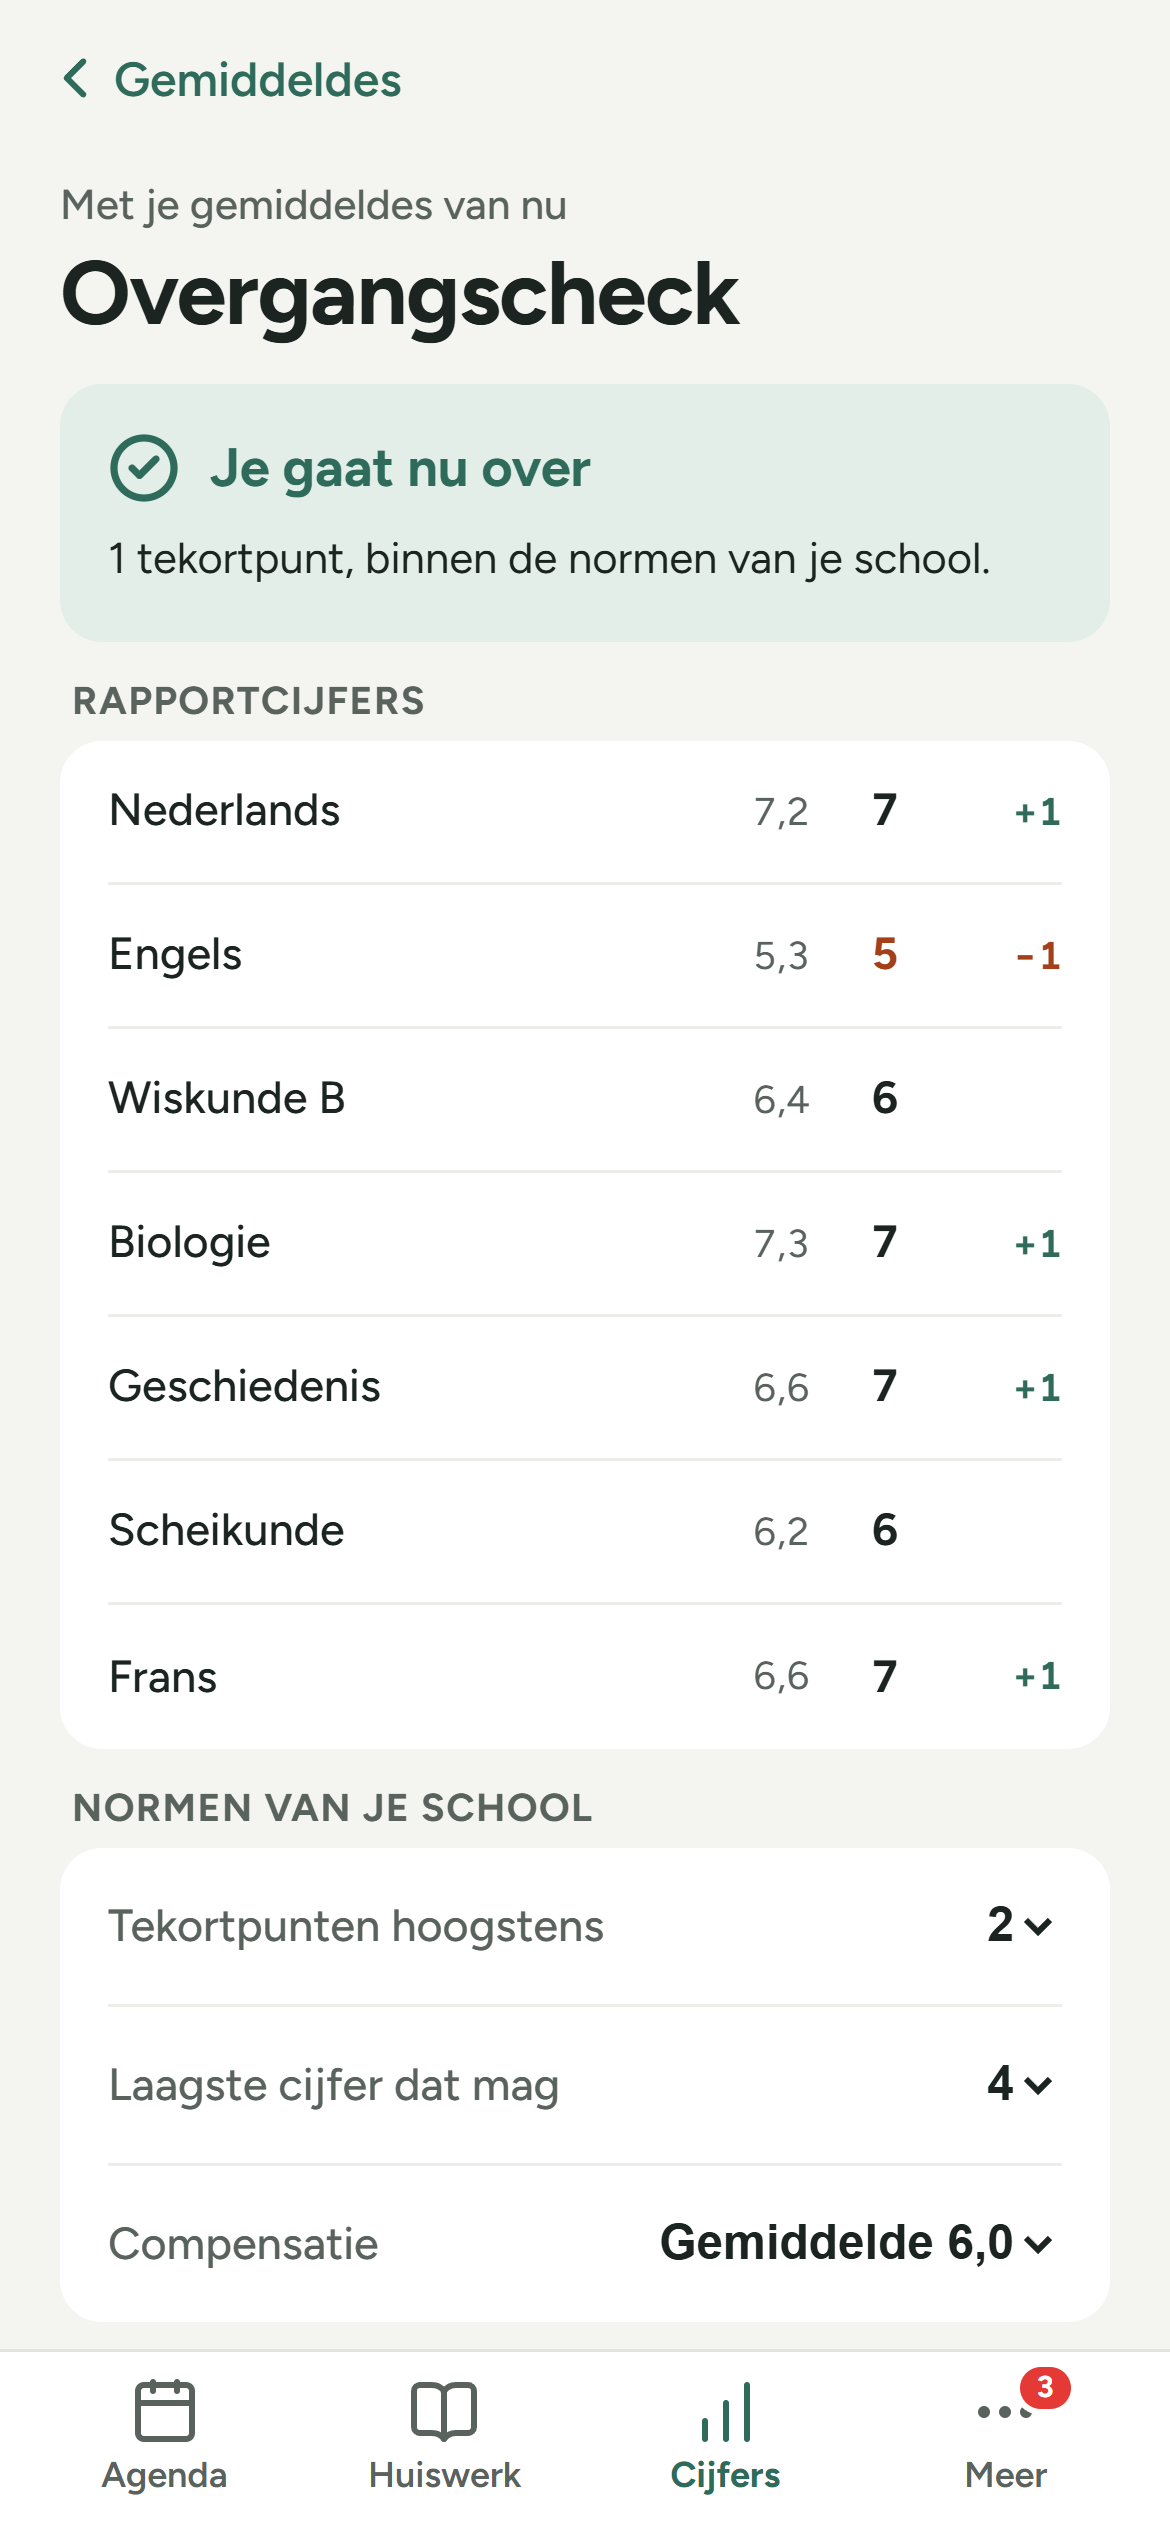
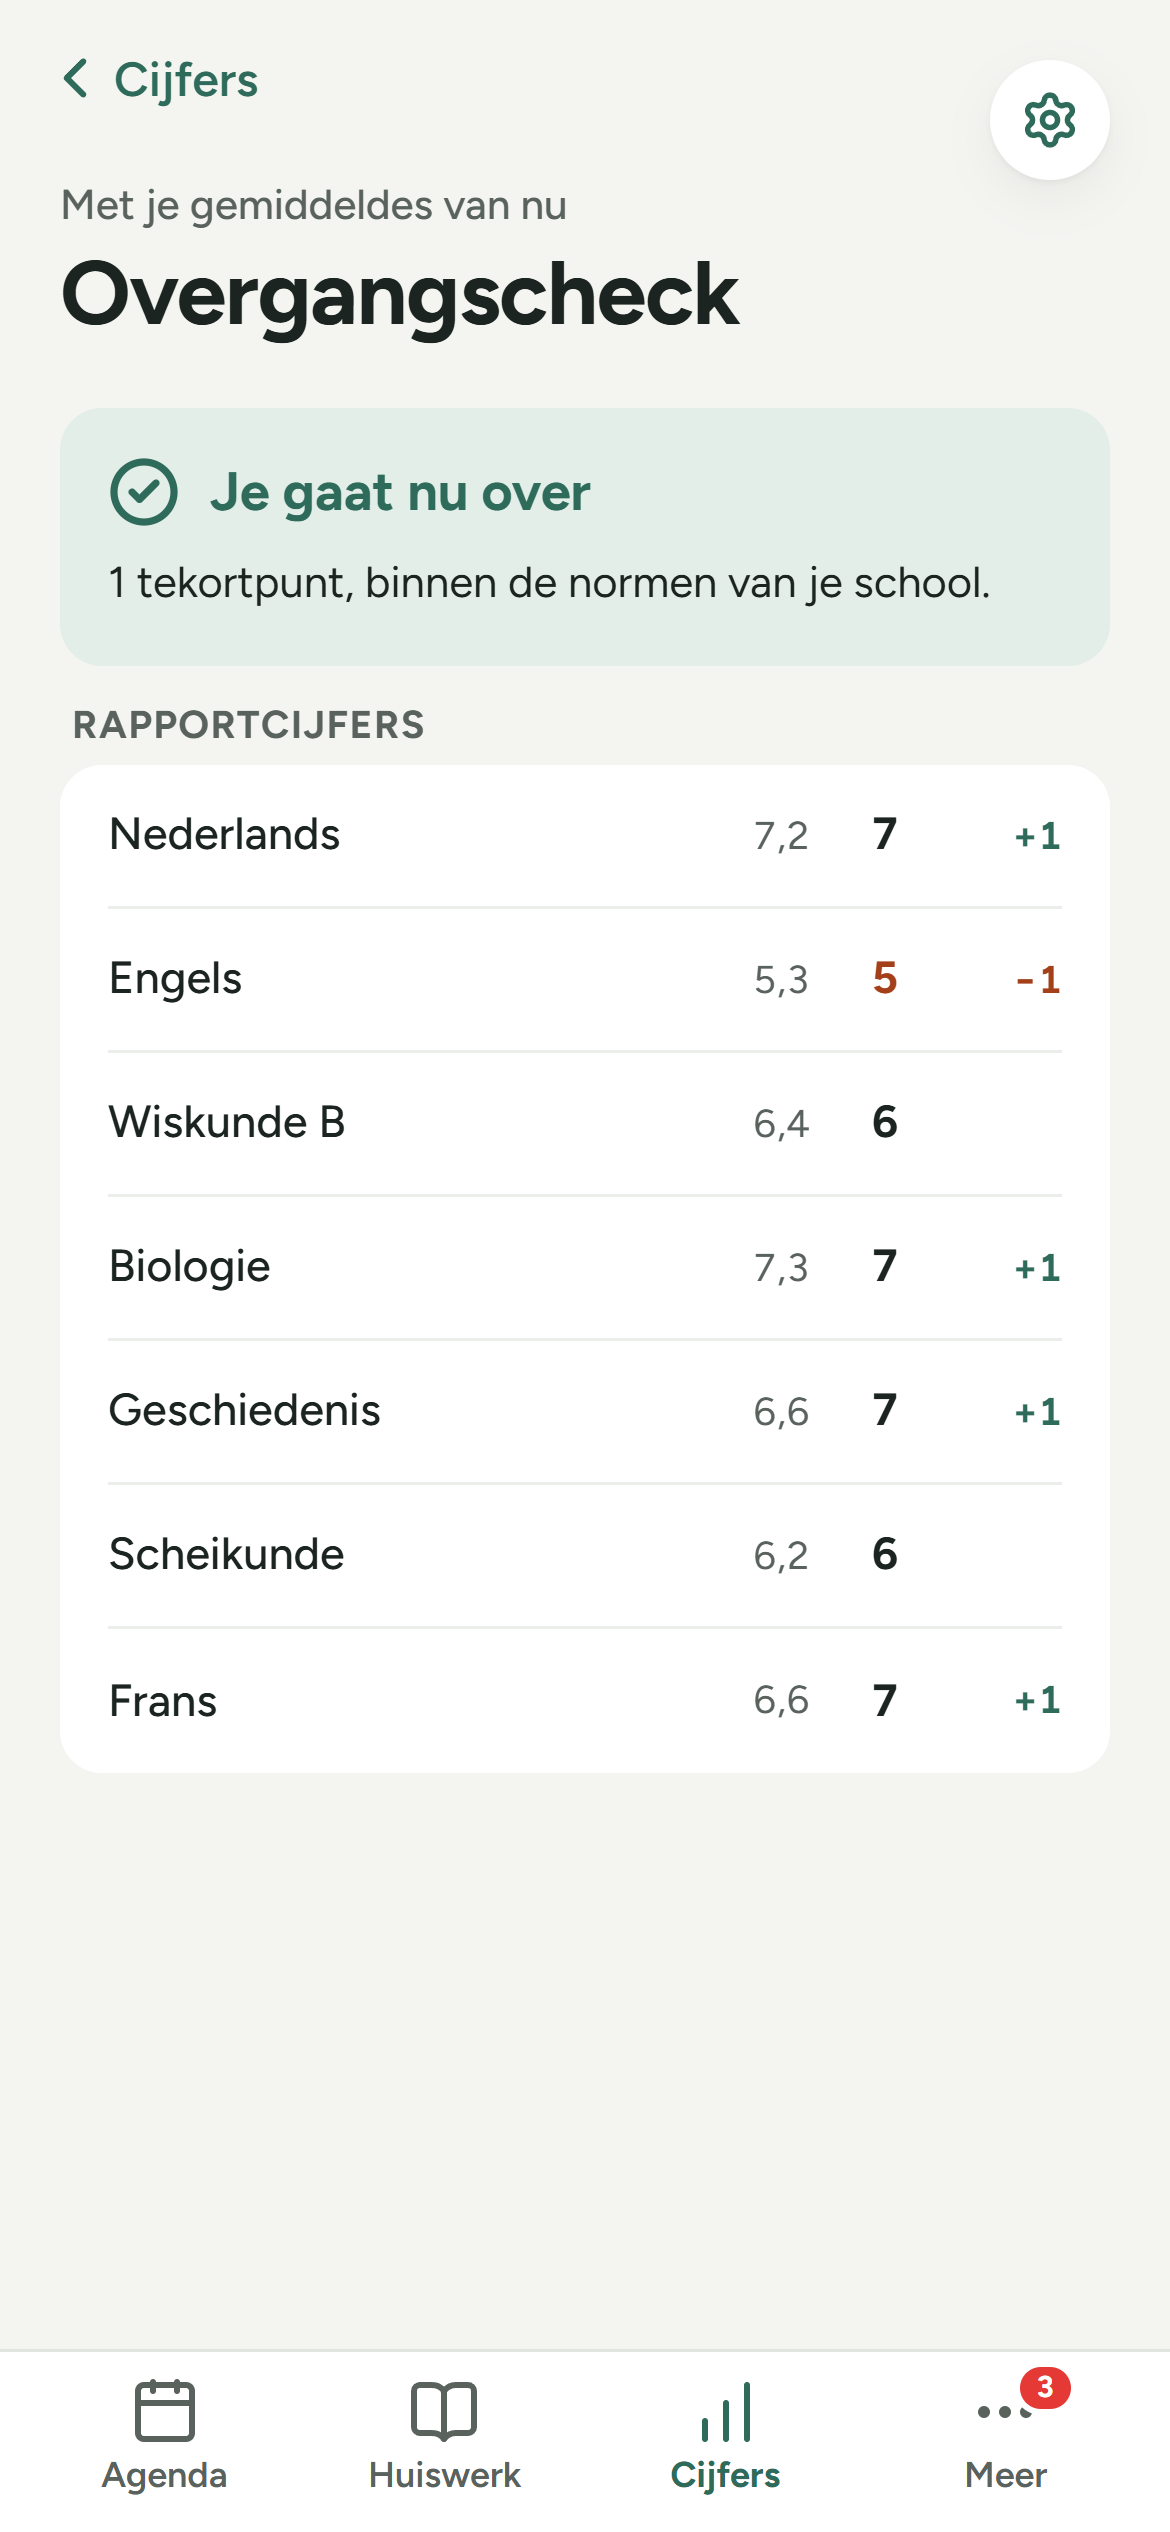
Cijfers: Gemiddeldes en Overgang/Examen samen rechtsboven; terug vanaf de checks naar Cijfers

diff --git a/src/screens/Cijfers.tsx b/src/screens/Cijfers.tsx
@@ -7,6 +7,7 @@ import { Sectie } from '../components/ui/Sectie';
 import { VegenOmTeVernieuwen } from '../components/ui/VegenOmTeVernieuwen';
 import { useCijfers } from '../hooks/useCijfers';
 import { meestRecent } from '../lib/cijfers';
+import { isExamenjaar } from '../lib/examen';
 import { nieuwVandaag } from '../lib/nieuweCijfers';
 import '../components/agenda/agenda.css';
 import '../components/cijfers/cijfers.css';
@@ -18,6 +19,8 @@ export function Cijfers() {
   const { cijfers, profiel, resultaat, fout, vernieuw } = useCijfers();
   // Net als op de andere schermen: titel groot, daaronder klas en periode.
   const onder = [profiel?.klas, profiel?.periode].filter(Boolean).join(' · ');
+  // In het examenjaar (5 havo, 6 vwo) is er geen overgang maar een eindexamen.
+  const examen = isExamenjaar(profiel?.klas);
   // Cijfers die vandaag voor het eerst binnenkwamen; per kind apart bij een ouder. Wacht op het profiel,
   // zodat we weten van wie de cijfers zijn.
   const nieuw = useMemo(
@@ -36,15 +39,18 @@ export function Cijfers() {
 
   return (
     <div className="scherm">
-      <header className="agendakop">
+      <header className="agendakop agendakop--twee-knoppen">
         <div className="agendakop__tekst">
           <h1 className="agendakop__titel">Cijfers</h1>
           <span className="agendakop__sub">{onder || ' '}</span>
         </div>
-        {/* Zelfde knop als "Vandaag" in de Agenda. */}
+        {/* Rechtsboven: Gemiddeldes, en Overgang (of in het examenjaar Examen) direct ernaast. */}
         <div className="agendakop__knoppen">
           <Link to="/cijfers/gemiddeldes" className="agendakop__vandaag agendakop__knoplink">
             Gemiddeldes
+          </Link>
+          <Link to={examen ? '/cijfers/examen' : '/cijfers/overgang'} className="agendakop__vandaag agendakop__knoplink">
+            {examen ? 'Examen' : 'Overgang'}
           </Link>
         </div>
       </header>

diff --git a/src/screens/Gemiddeldes.tsx b/src/screens/Gemiddeldes.tsx
@@ -1,5 +1,4 @@
 import { useState } from 'react';
-import { Link } from 'react-router-dom';
 import { VakRij } from '../components/cijfers/VakRij';
 import { OfflineRegel } from '../components/ui/OfflineRegel';
 import { PaginaKop } from '../components/ui/PaginaKop';
@@ -7,30 +6,20 @@ import { TerugLink } from '../components/ui/TerugLink';
 import { VegenOmTeVernieuwen } from '../components/ui/VegenOmTeVernieuwen';
 import { useCijfers } from '../hooks/useCijfers';
 import { perVak } from '../lib/cijfers';
-import { isExamenjaar } from '../lib/examen';
 import '../components/ui/ui.css';
 import '../components/agenda/agenda.css';
 import '../components/cijfers/cijfers.css';
 import { LaadRijen } from '../components/ui/Laden';
 
 export function Gemiddeldes() {
-  const { cijfers, profiel, resultaat, sub, fout, vernieuw } = useCijfers();
-  // In het examenjaar (5 havo, 6 vwo) is er geen overgang maar een eindexamen.
-  const examen = isExamenjaar(profiel?.klas);
+  const { cijfers, resultaat, sub, fout, vernieuw } = useCijfers();
   const [openVak, setOpenVak] = useState<string | null>(null);
 
   return (
     <div className="scherm">
       {/* De titel blijft staan; alleen de lijst eronder veeg je omlaag om te vernieuwen, net als bij Cijfers. */}
-      <div className="pagina pagina--met-terug gemiddeldes__kop gemiddeldes__kop--met-knop">
+      <div className="pagina pagina--met-terug gemiddeldes__kop">
         <TerugLink naar="/cijfers" label="Cijfers" />
-        {/* Rechtsboven, in dezelfde knop als "Gemiddeldes" bij Cijfers. */}
-        <Link
-          to={examen ? '/cijfers/examen' : '/cijfers/overgang'}
-          className="agendakop__vandaag agendakop__knoplink gemiddeldes__knop"
-        >
-          {examen ? 'Examen' : 'Overgang'}
-        </Link>
         <PaginaKop sub={sub} titel="Gemiddeldes" />
         <OfflineRegel resultaat={resultaat} />
       </div>

diff --git a/src/screens/Overgang.tsx b/src/screens/Overgang.tsx
@@ -35,7 +35,7 @@ export function Overgang() {
   return (
     <div className="pagina pagina--met-terug">
       <VasteKop>
-        <TerugLink naar="/cijfers/gemiddeldes" label="Gemiddeldes" />
+        <TerugLink naar="/cijfers" label="Cijfers" />
         {/* Tandwieltje rechtsboven: de normen van je school invullen. */}
         <Link to="/cijfers/overgang/normen" className="agendakop__vandaag gemiddeldes__knop tandwielknop" aria-label="Normen van je school">
           <Settings size={20} strokeWidth={2.2} aria-hidden="true" />

diff --git a/src/screens/Examencheck.tsx b/src/screens/Examencheck.tsx
@@ -30,7 +30,7 @@ export function Examencheck() {
   return (
     <div className="pagina pagina--met-terug">
       <VasteKop>
-        <TerugLink naar="/cijfers/gemiddeldes" label="Gemiddeldes" />
+        <TerugLink naar="/cijfers" label="Cijfers" />
         <Link to="/cijfers/examen/vakken" className="agendakop__vandaag gemiddeldes__knop tandwielknop" aria-label="Mijn vakken">
           <Settings size={20} strokeWidth={2.2} aria-hidden="true" />
         </Link>

diff --git a/src/components/agenda/agenda.css b/src/components/agenda/agenda.css
@@ -713,3 +713,16 @@
   min-width: 0;
   font-size: 10px;
 }
+
+/*
+ * Cijfers: twee knoppen rechtsboven. Past dat niet naast de titel (heel smal scherm), dan gaan de knoppen
+ * eronder staan in plaats van over de titel heen.
+ */
+.agendakop--twee-knoppen {
+  flex-wrap: wrap;
+  row-gap: 8px;
+}
+
+.agendakop--twee-knoppen .agendakop__tekst {
+  flex: 0 0 auto;
+}
